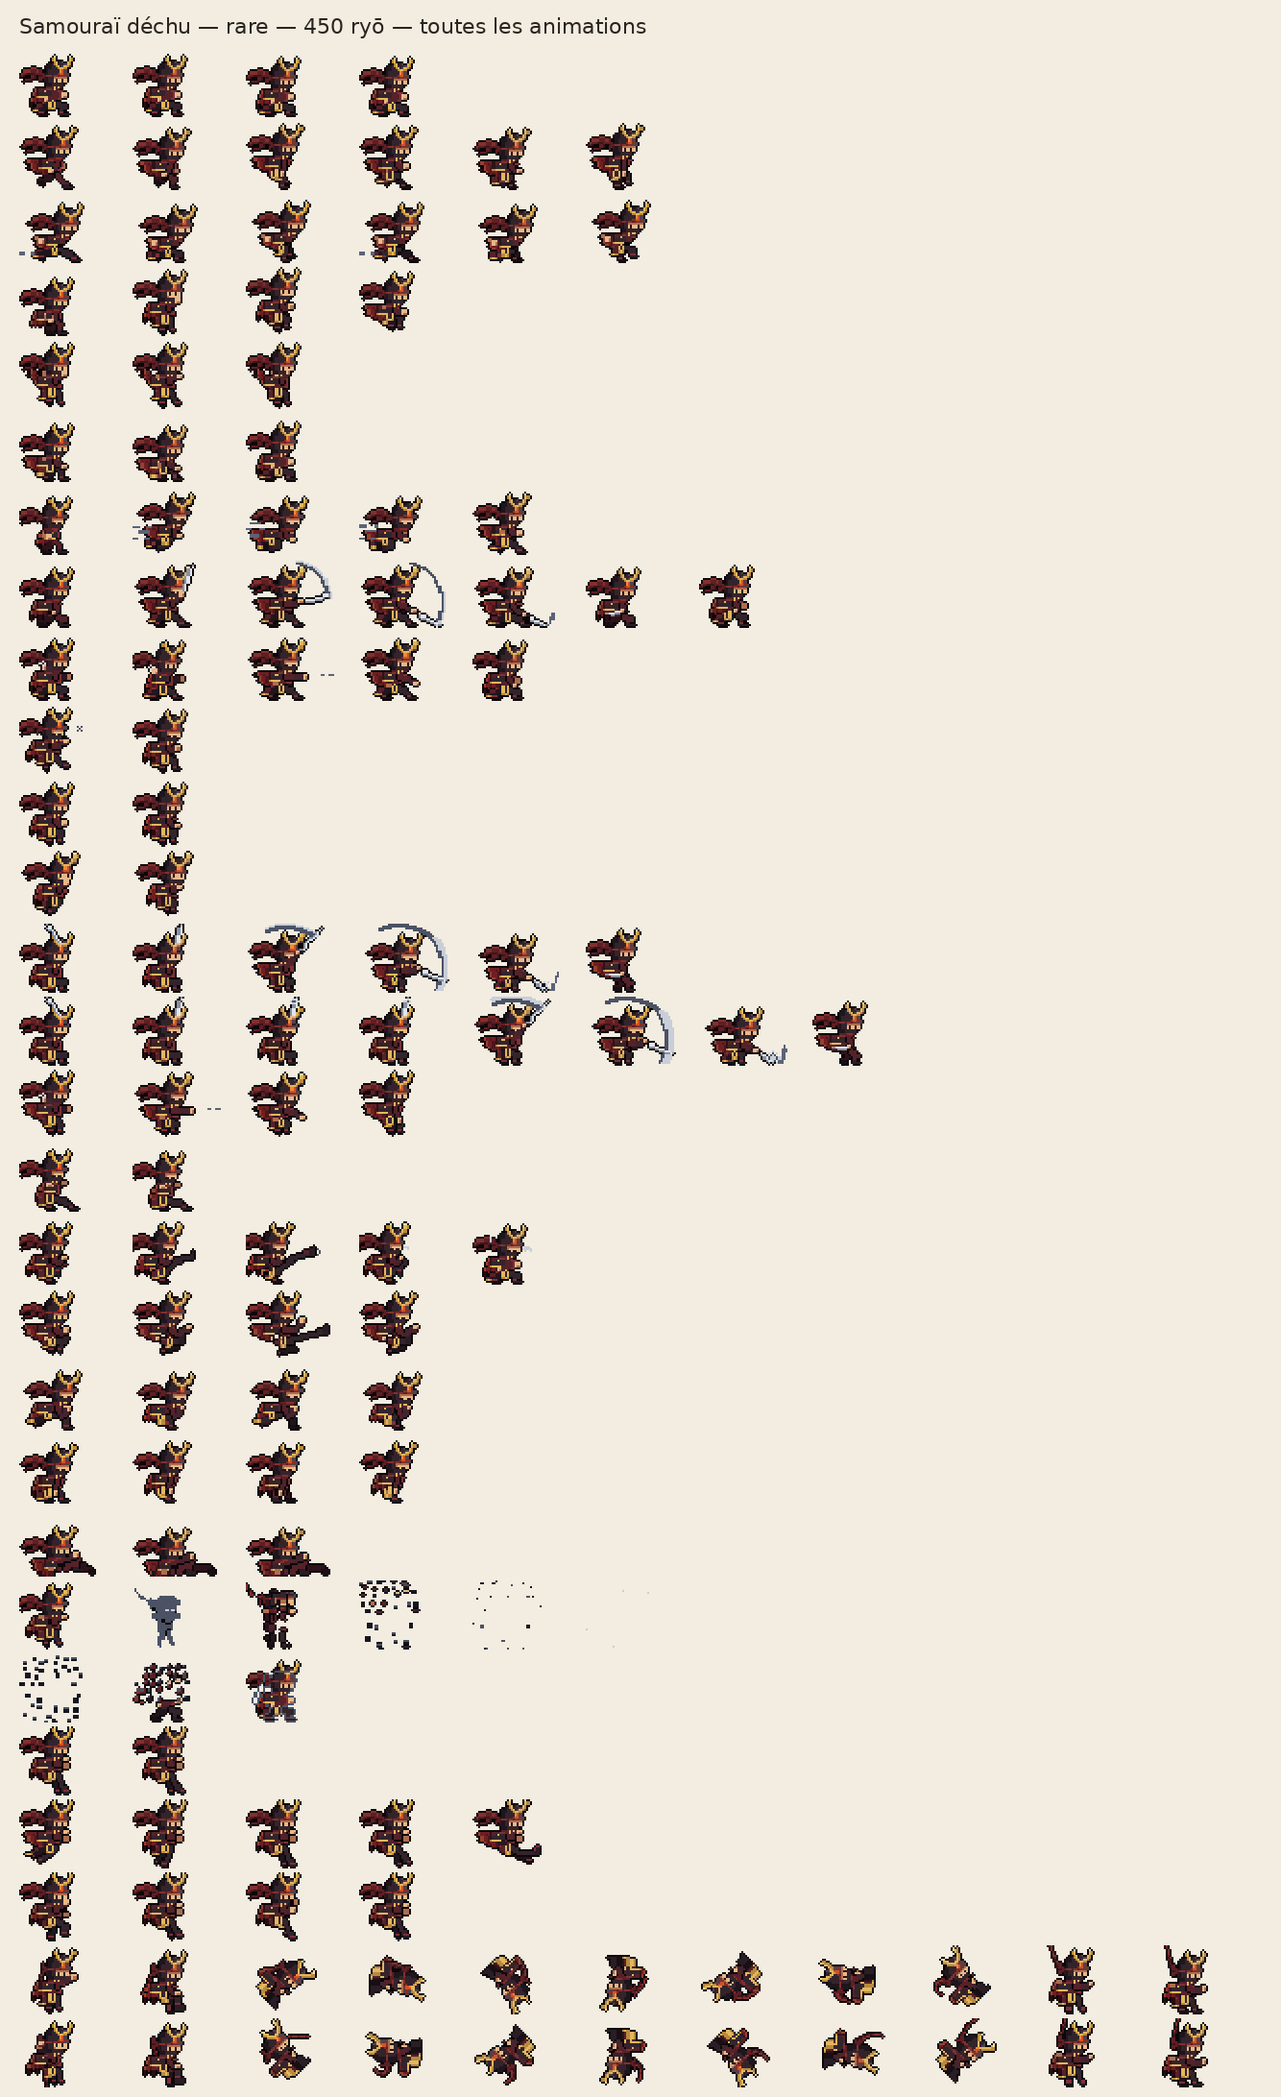
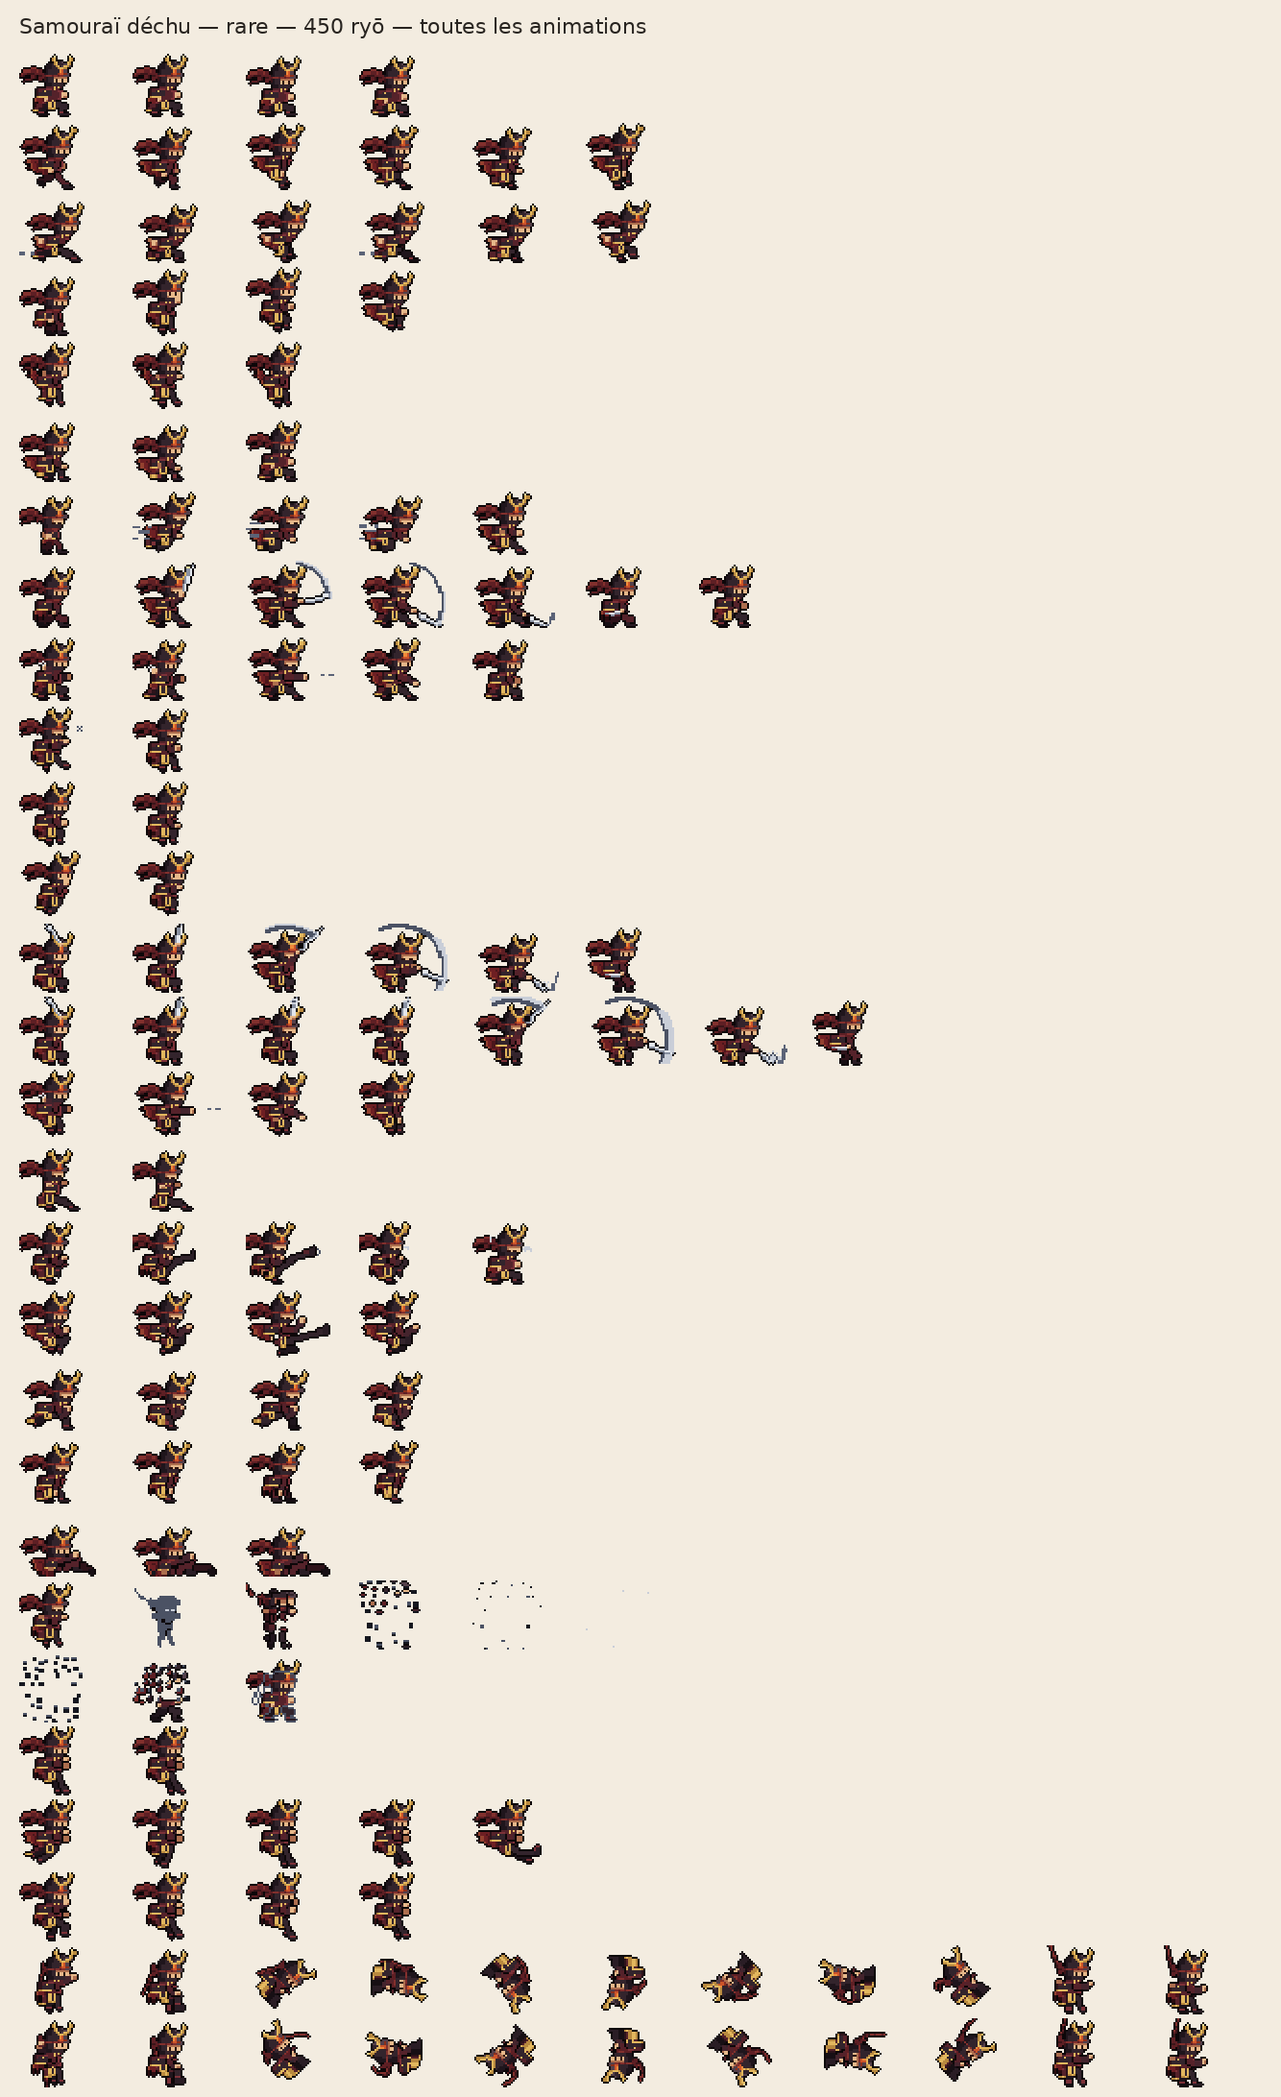
Cape du samouraï plus près du corps au repos ; plus de bouton Son dans la version de test
Au repos, la cape garde sa forme (bord droit, entaille, pointes) mais ne
dépasse plus que de cinq pixels derrière l'épaule au lieu de sept (demande de
Raph). Version de test : le bouton « Son » est retiré (la touche M coupe
toujours le son) et le panneau « Réglages » prend sa place en haut à droite.

Claude-Session: https://claude.ai/code/session_01A2iwx41GJ1yT1ZEu9VhwRg

diff --git a/docs/carte-mentale/index.html b/docs/carte-mentale/index.html
@@ -270,7 +270,7 @@ const BRANCHES = [
     keys: ['2 dégâts, recul 170 px/s', '0,35 s avant d\'en relancer un', 'Portée équivalente au sabre'],
     files: ['src/game/fall.js', 'tools/kage_forge/rig.py'], see: ['ennemi-chute'] },
   { id: 'kage-skins', t: 'Skins de KAGE', s: 'encours', d: 'Encre, le voyageur, le paysan, le Samouraï déchu, Lumière d’or ; six autres à reprendre un par un',
-    txt: "Un skin = une palette par slots (même animation, même boîte de collision, rien ne change dans le jeu) et des accessoires, posés pose par pose : sur la tête (grand sugegasa tressé, dessiné à la main), dans le dos (le mino de feuilles et de paille du voyageur, qui suit le bord du dos, s'évase jusqu'aux chevilles et s'effiloche ; le tonnelet doré, le panier, le bambou et le manche d'outil du paysan), sur le corps (cordon doré en pointillés et boucle de ceinture, pan de tunique, pantalon rapiécé, kimono semé de feuilles). Les pans du bandeau sont rangés (le voyageur garde un ruban qui flotte). Chaque skin a sa planche d'animation complète (la forge exporte ses accessoires sur un calque d'index, kage_acc_<skin>_index.png, fondu par le jeu sur la planche recolorée). Planches de Raph (14 novembre 2026) : après un premier essai trop rapide des dix skins entourés, on reprend un par un ; faits : le voyageur (100 ryō) et le paysan des rizières (100 ryō) ; le vagabond (50 ryō) est retiré du jeu (14 novembre 2026) ; Lumière d'or (légendaire, 600 ryō, 15 novembre 2026) : ninja bleu nuit, bandeau d'or et ses pans en flammes, étoffe dorée sur l'épaule, cordon et pans d'or à la ceinture, grande auréole à croix de lumière (sans contour) ; sabre à lame d'or et poignée de cuir, arc du coup d'or, shurikens dorés (projectileColors) ; en jeu (src/game/aura.js), un orbe doré qui flotte devant lui, deux volutes de lumière autour des jambes, des étincelles ; une légère traînée d'or derrière le coup d'épée (les images précédentes de la lame) des silhouettes dorées derrière le dash , trois reflets et un peu de poussière d'or étincelante derrière chaque shuriken (champ trail, Shurikens.dust, maskSheet dans sprites.js) ; le Samouraï déchu (rare, 450 ryō, 16 novembre 2026) : kabuto laqué à la bombe haute, cornes d'or en croissant et cimier rouge, bande rouge et ses deux pans au vent ; grande épaulière laquée bordée d'or, au haut carré (épaules plus carrées) ; cape rouge en lambeaux, dessinée à la main pour chaque vent (lu sur les pans du bandeau de la pose) : au repos plaquée dans le dos des épaules aux genoux, angles nets, une entaille sur le côté, le bas en pointes ; en course elle vole haut derrière les épaules ; en chute elle se soulève ; col d'or en V, ceinture à plaques d'or ; tassette avant bordée d'or en U, tassette arrière clouée d'or ; hakama sombre jusqu'à la jambe levée d'un coup de pied, chaussures à bande rouille ; le bras arrière rapproché du corps d'un pixel (demandes de Raph) ; sa barre de vie passe au-dessus des cornes (champ barLift). Le même jour : un calque d'accessoires sait effacer (marque ERASE, index 255 : les pans rangés, le bras déplacé) ; jusque-là, ce qu'un accessoire retirait restait visible en jeu (les pans du voyageur, du paysan et de Lumière d'or) ; et en arène, le ninja porte enfin le skin de l'aventure en cours. Les six autres (ninja blanc, écarlate, Ombre pourpre, pêcheur, Souffle de l'hiver, Renard blanc) attendent en brouillon (tools/kage_forge/skins_brouillon/), hors du jeu. Nouveaux slots : gear (b B i) et gear2 (j J).",
+    txt: "Un skin = une palette par slots (même animation, même boîte de collision, rien ne change dans le jeu) et des accessoires, posés pose par pose : sur la tête (grand sugegasa tressé, dessiné à la main), dans le dos (le mino de feuilles et de paille du voyageur, qui suit le bord du dos, s'évase jusqu'aux chevilles et s'effiloche ; le tonnelet doré, le panier, le bambou et le manche d'outil du paysan), sur le corps (cordon doré en pointillés et boucle de ceinture, pan de tunique, pantalon rapiécé, kimono semé de feuilles). Les pans du bandeau sont rangés (le voyageur garde un ruban qui flotte). Chaque skin a sa planche d'animation complète (la forge exporte ses accessoires sur un calque d'index, kage_acc_<skin>_index.png, fondu par le jeu sur la planche recolorée). Planches de Raph (14 novembre 2026) : après un premier essai trop rapide des dix skins entourés, on reprend un par un ; faits : le voyageur (100 ryō) et le paysan des rizières (100 ryō) ; le vagabond (50 ryō) est retiré du jeu (14 novembre 2026) ; Lumière d'or (légendaire, 600 ryō, 15 novembre 2026) : ninja bleu nuit, bandeau d'or et ses pans en flammes, étoffe dorée sur l'épaule, cordon et pans d'or à la ceinture, grande auréole à croix de lumière (sans contour) ; sabre à lame d'or et poignée de cuir, arc du coup d'or, shurikens dorés (projectileColors) ; en jeu (src/game/aura.js), un orbe doré qui flotte devant lui, deux volutes de lumière autour des jambes, des étincelles ; une légère traînée d'or derrière le coup d'épée (les images précédentes de la lame) des silhouettes dorées derrière le dash , trois reflets et un peu de poussière d'or étincelante derrière chaque shuriken (champ trail, Shurikens.dust, maskSheet dans sprites.js) ; le Samouraï déchu (rare, 450 ryō, 16 novembre 2026) : kabuto laqué à la bombe haute, cornes d'or en croissant et cimier rouge, bande rouge et ses deux pans au vent ; grande épaulière laquée bordée d'or, au haut carré (épaules plus carrées) ; cape rouge en lambeaux, dessinée à la main pour chaque vent (lu sur les pans du bandeau de la pose) : au repos plaquée dans le dos des épaules aux genoux, cinq pixels au plus derrière l'épaule, angles nets, une entaille sur le côté, le bas en pointes ; en course elle vole haut derrière les épaules ; en chute elle se soulève ; col d'or en V, ceinture à plaques d'or ; tassette avant bordée d'or en U, tassette arrière clouée d'or ; hakama sombre jusqu'à la jambe levée d'un coup de pied, chaussures à bande rouille ; le bras arrière rapproché du corps d'un pixel (demandes de Raph) ; sa barre de vie passe au-dessus des cornes (champ barLift). Le même jour : un calque d'accessoires sait effacer (marque ERASE, index 255 : les pans rangés, le bras déplacé) ; jusque-là, ce qu'un accessoire retirait restait visible en jeu (les pans du voyageur, du paysan et de Lumière d'or) ; et en arène, le ninja porte enfin le skin de l'aventure en cours. Les six autres (ninja blanc, écarlate, Ombre pourpre, pêcheur, Souffle de l'hiver, Renard blanc) attendent en brouillon (tools/kage_forge/skins_brouillon/), hors du jeu. Nouveaux slots : gear (b B i) et gear2 (j J).",
     keys: ['5 skins en jeu', '6 en brouillon', 'gear b B i · gear2 j J', 'effacer : index 255'],
     files: ['assets/characters/kage/skins/', 'src/engine/sprites.js', 'tools/kage_forge/accessories.py', 'tools/kage_forge/palette.py', 'tools/kage_forge/skin_design.py', 'tools/kage_forge/skin_sheets.py', 'tools/kage_forge/skins_brouillon/', 'src/game/shop.js', 'src/game/aura.js', 'docs/SKINS.md'],
     links: [['Le voyageur, face à son modèle', 'docs/kage/skins/voyageur_planche.png'], ['Le paysan, face à son modèle', 'docs/kage/skins/paysan_planche.png'], ['Lumière d’or, face à son modèle', 'docs/kage/skins/or_planche.png'], ['Le Samouraï déchu, face à son modèle', 'docs/kage/skins/samourai_planche.png'], ['Le Samouraï déchu, toutes les animations', 'docs/kage/skins/planche_samourai.png']], see: ['sys-boutique', 'hab-marchand'] },
@@ -559,7 +559,7 @@ const BRANCHES = [
   { id: 'proj-site', t: 'Site du jeu', s: 'fait', d: 'Public, mis à jour automatiquement',
     txt: "La version en ligne du jeu, mise à jour à chaque push sur main.", links: [['Jouer en ligne', 'https://raphgh31.github.io/ninja-video-game/']], see: ['tech-deploy'] },
   { id: 'proj-test', t: 'Les deux artefacts', s: 'fait', d: 'Le jeu, et la version de test de Raph',
-    txt: "Organisation demandée par Raph (novembre 2026), renommés avec le jeu le 15 novembre 2026. « The Ninja Adventure » : le jeu tel que tout le monde le verra (dist/kage-standalone.html). « The Ninja Adventure Test » (partagé par lien) : la version où Raph essaie (dist/kage-test.html) — pas d'écran titre, et un panneau en haut à droite : tous les skins sans achat (clic ou touches 1, 2…), les chapitres en un clic, et le saut de zone en zone (KAGE est posé à la lanterne de la zone). Depuis le 16 novembre 2026, tout le panneau s'ouvre et se ferme d'un seul bouton « Réglages » (fermé au premier lancement, puis comme on l'a laissé) : refermé, il n'empiète plus sur l'image ; les touches 1, 2… marchent toujours. Les deux sont republiés à chaque étape.",
+    txt: "Organisation demandée par Raph (novembre 2026), renommés avec le jeu le 15 novembre 2026. « The Ninja Adventure » : le jeu tel que tout le monde le verra (dist/kage-standalone.html). « The Ninja Adventure Test » (partagé par lien) : la version où Raph essaie (dist/kage-test.html) — pas d'écran titre, et un panneau en haut à droite : tous les skins sans achat (clic ou touches 1, 2…), les chapitres en un clic, et le saut de zone en zone (KAGE est posé à la lanterne de la zone). Depuis le 16 novembre 2026, pas de bouton « Son » (la touche M coupe toujours le son), et tout le panneau s'ouvre et se ferme d'un seul bouton « Réglages » (fermé au premier lancement, puis comme on l'a laissé) : refermé, il n'empiète plus sur l'image ; les touches 1, 2… marchent toujours. Les deux sont republiés à chaque étape.",
     files: ['src/main.js', 'tools/standalone.mjs'], links: [['The Ninja Adventure', 'https://claude.ai/artifact/Cjj8EJCrABmuHzWypJC2cm'], ['The Ninja Adventure Test', 'https://claude.ai/artifact/ScyWi7qXjftmdLs6Qxo7Ys']], see: ['tech-standalone', 'kage-skins'] },
   { id: 'proj-historique', t: 'Grandes étapes', s: 'fait', d: 'De la PR #1 à la PR #31',
     txt: "KAGE, TATE, niveau 1 et tactile (#1) ; WARA (#2) ; plan du monde (#3) ; sprint au joystick (#8) ; le Potager en greybox (#9) ; refonte visuelle du Potager (#11) ; musique (#13) ; bruitages (#12, #14 à #16) ; lanternes par zone (#17) ; grenier de la grange (#18) ; série Potager et KARASU-KASHI (#19) ; cette carte mentale (#20) ; fin du chapitre 1 (#23) ; retouches du chapitre 1 (#24) ; chapitre 2, la Forêt (#25) ; saltos et détours (#26) ; Lumière d'or, correctif du corbeau, arène du Potager et jeu à plusieurs (#27) ; arène v2 (#28) ; plateforme du gong (#29) ; The Ninja Adventure, nouveau menu, salon et modes (#30) ; menus sobres, Mon ninja en grand, arène rapprochée sur téléphone, messages de reprise (#31).",

diff --git a/src/style.css b/src/style.css
@@ -73,6 +73,7 @@ html, body { overflow-x: hidden; }
   color: var(--ink); background: transparent;
   border: 2px solid var(--line); padding: 2px 8px; cursor: pointer;
 }
+.mute[hidden] { display: none; }
 .mute:hover { border-color: var(--muted); }
 .mute[aria-pressed="true"] { color: var(--muted); }
 body.mobile .mute {
@@ -375,4 +376,4 @@ body.mobile .touch-layer { position: absolute; left: 0; top: 0; z-index: 1; touc
 .lab button[aria-pressed="true"] { border-color: #8e6a44; background: rgba(142, 106, 68, .35); color: #fff7e6; }
 .lab__row span { color: #fff7e6; padding: 0 3px 1px; }
 .skinlab canvas:not(.pxt) { width: 32px; height: 26px; image-rendering: pixelated; }
-body.mobile .lab { top: 20px; }
+body.mobile .lab { top: 4px; }   /* (la version de test n'a pas de bouton « Son » : le panneau prend sa place) */

diff --git a/src/main.js b/src/main.js
@@ -708,6 +708,8 @@ function refreshMute() {
   muteBtn.setAttribute('aria-pressed', String(isMuted()));
 }
 muteBtn.addEventListener('click', () => { setMuted(!isMuted()); refreshMute(); muteBtn.blur(); });
+// version de test : pas de bouton « Son » (demande de Raph : moins de choses sur l'image ; la touche M coupe toujours)
+if (TEST_BUILD) muteBtn.hidden = true;
 refreshMute();
 // musique du chapitre : chargée tout de suite, jouée au premier geste du joueur
 const music = new Music();

diff --git a/tools/kage_forge/accessories.py b/tools/kage_forge/accessories.py
@@ -891,17 +891,17 @@ def _wind(g, hx, hy):
 # (première rangée, relative à la tête). Lumière à gauche : le bord extérieur clair (Q), le creux contre le
 # dos à l'ombre (p), un pli (p) ; r : le bout sombre d'un lambeau.
 CAPE = {
-    # au repos : plaquée dans le dos, des épaules aux genoux ; bord extérieur droit, une entaille sur le côté,
-    # le bas en pointes déchirées
+    # au repos : plaquée dans le dos, des épaules aux genoux, cinq pixels au plus derrière l'épaule (Raph la
+    # trouvait trop large à sept) ; bord extérieur droit, une entaille sur le côté, le bas en pointes déchirées
     "calm": (10, [
-        "..QPPpp",
-        "..QPPpp",
-        ".QPpPpp",
-        "..PpPpp",
-        "QPPpPpp",
-        "QPPpPpp",
-        "r.P.r.p",
-        "r...r..",
+        "..Qpp",
+        "..Qpp",
+        ".QPpp",
+        "..Ppp",
+        "QPPpp",
+        "QPPpp",
+        "r.P.p",
+        "r.r..",
     ]),
     # en course : elle vole haut derrière les épaules, le bord du haut bien droit, trois lambeaux au bout
     "back": (10, [

diff --git a/CLAUDE.md b/CLAUDE.md
@@ -10,7 +10,7 @@ Jeu de plateforme 2D rapide (esprit Geometry Dash), pixel art. Répondre en fran
 - **Pour construire un nouveau chapitre : lire `docs/GUIDE_CHAPITRE.md`** (méthode par phases, leçons du chapitre 1 à anticiper, architecture d'un chapitre, liste de contrôle).
 - **Lire d'abord `docs/REPRISE.md`** : état du projet, décisions de design, valeurs de réglage, carte des fichiers, préférences de l'utilisateur, pistes restantes.
 - **Site du jeu** : https://raphgh31.github.io/ninja-video-game/ — mis en ligne automatiquement par `.github/workflows/deploy.yml` à chaque push sur `main` (réglage du dépôt : *Settings → Pages → Source : GitHub Actions*). Après une fusion, vérifier que le workflow a réussi et tester le site.
-- **Deux artefacts claude.ai** (organisation demandée par l'utilisateur, novembre 2026), fabriqués par `npm run standalone` ; **règle de l'utilisateur (15 novembre 2026) : la version test ne se publie que quand il dit « publie-le » (alors sans redemander) ; s'il ne dit rien, ne pas publier** : **« The Ninja Adventure »** (ex « The Ninja Game », `5f0bb94d-1fa1-48d5-b9b9-f829586682e6`, https://claude.ai/artifact/Cjj8EJCrABmuHzWypJC2cm) = le jeu tel que tout le monde le verra, avec `dist/kage-standalone.html` ; **« The Ninja Adventure Test »** (`cf7a5349-c737-467e-8a85-43de0e34b850`, https://claude.ai/artifact/ScyWi7qXjftmdLs6Qxo7Ys, partagé par lien) = la version où l'utilisateur essaie, avec `dist/kage-test.html` : pas d'écran titre, et un panneau en haut à droite, qui s'ouvre et se ferme tout entier d'un bouton « Réglages » (fermé, il n'empiète pas sur l'image) — skins sans achat (clic ou touches 1, 2…), **chapitres en un clic**, **saut de zone en zone** (`setupSkinLab`, `gotoZone` dans `main.js`). Tout nouveau chapitre apparaît de lui-même dans ce panneau (entrée de `LEVELS` avec un champ `chapter`).
+- **Deux artefacts claude.ai** (organisation demandée par l'utilisateur, novembre 2026), fabriqués par `npm run standalone` ; **règle de l'utilisateur (15 novembre 2026) : la version test ne se publie que quand il dit « publie-le » (alors sans redemander) ; s'il ne dit rien, ne pas publier** : **« The Ninja Adventure »** (ex « The Ninja Game », `5f0bb94d-1fa1-48d5-b9b9-f829586682e6`, https://claude.ai/artifact/Cjj8EJCrABmuHzWypJC2cm) = le jeu tel que tout le monde le verra, avec `dist/kage-standalone.html` ; **« The Ninja Adventure Test »** (`cf7a5349-c737-467e-8a85-43de0e34b850`, https://claude.ai/artifact/ScyWi7qXjftmdLs6Qxo7Ys, partagé par lien) = la version où l'utilisateur essaie, avec `dist/kage-test.html` : pas d'écran titre, et un panneau en haut à droite, qui s'ouvre et se ferme tout entier d'un bouton « Réglages » (fermé, il n'empiète pas sur l'image ; pas de bouton « Son » dans cette version, la touche M coupe le son) — skins sans achat (clic ou touches 1, 2…), **chapitres en un clic**, **saut de zone en zone** (`setupSkinLab`, `gotoZone` dans `main.js`). Tout nouveau chapitre apparaît de lui-même dans ce panneau (entrée de `LEVELS` avec un champ `chapter`).
 - **Carte mentale** de tout le jeu : `docs/carte-mentale/index.html` (mode d'emploi dans son README), en ligne avec le jeu (…/ninja-video-game/carte-mentale/). **Règle de l'utilisateur : chaque modification du jeu met aussi la carte à jour**, dans le même commit (boîte ajoutée, état changé, chemins, résumé), puis republier l'artefact de la carte (https://claude.ai/artifact/M1H94uhbSYCRyFAp1Scvzi) avec `python3 tools/carte_mentale.py --artefact <fichier>`. `npm run carte` (inclus dans `npm test`, et vérifié sur chaque PR) échoue si elle a pris du retard.
 - Direction choisie par l'utilisateur : un **monde unique** très long (zones, chapitres, sauvegarde, améliorations de KAGE), pas des niveaux séparés. Plan : `docs/MONDE.md` (carte : `tools/monde_carte.py`).
 
